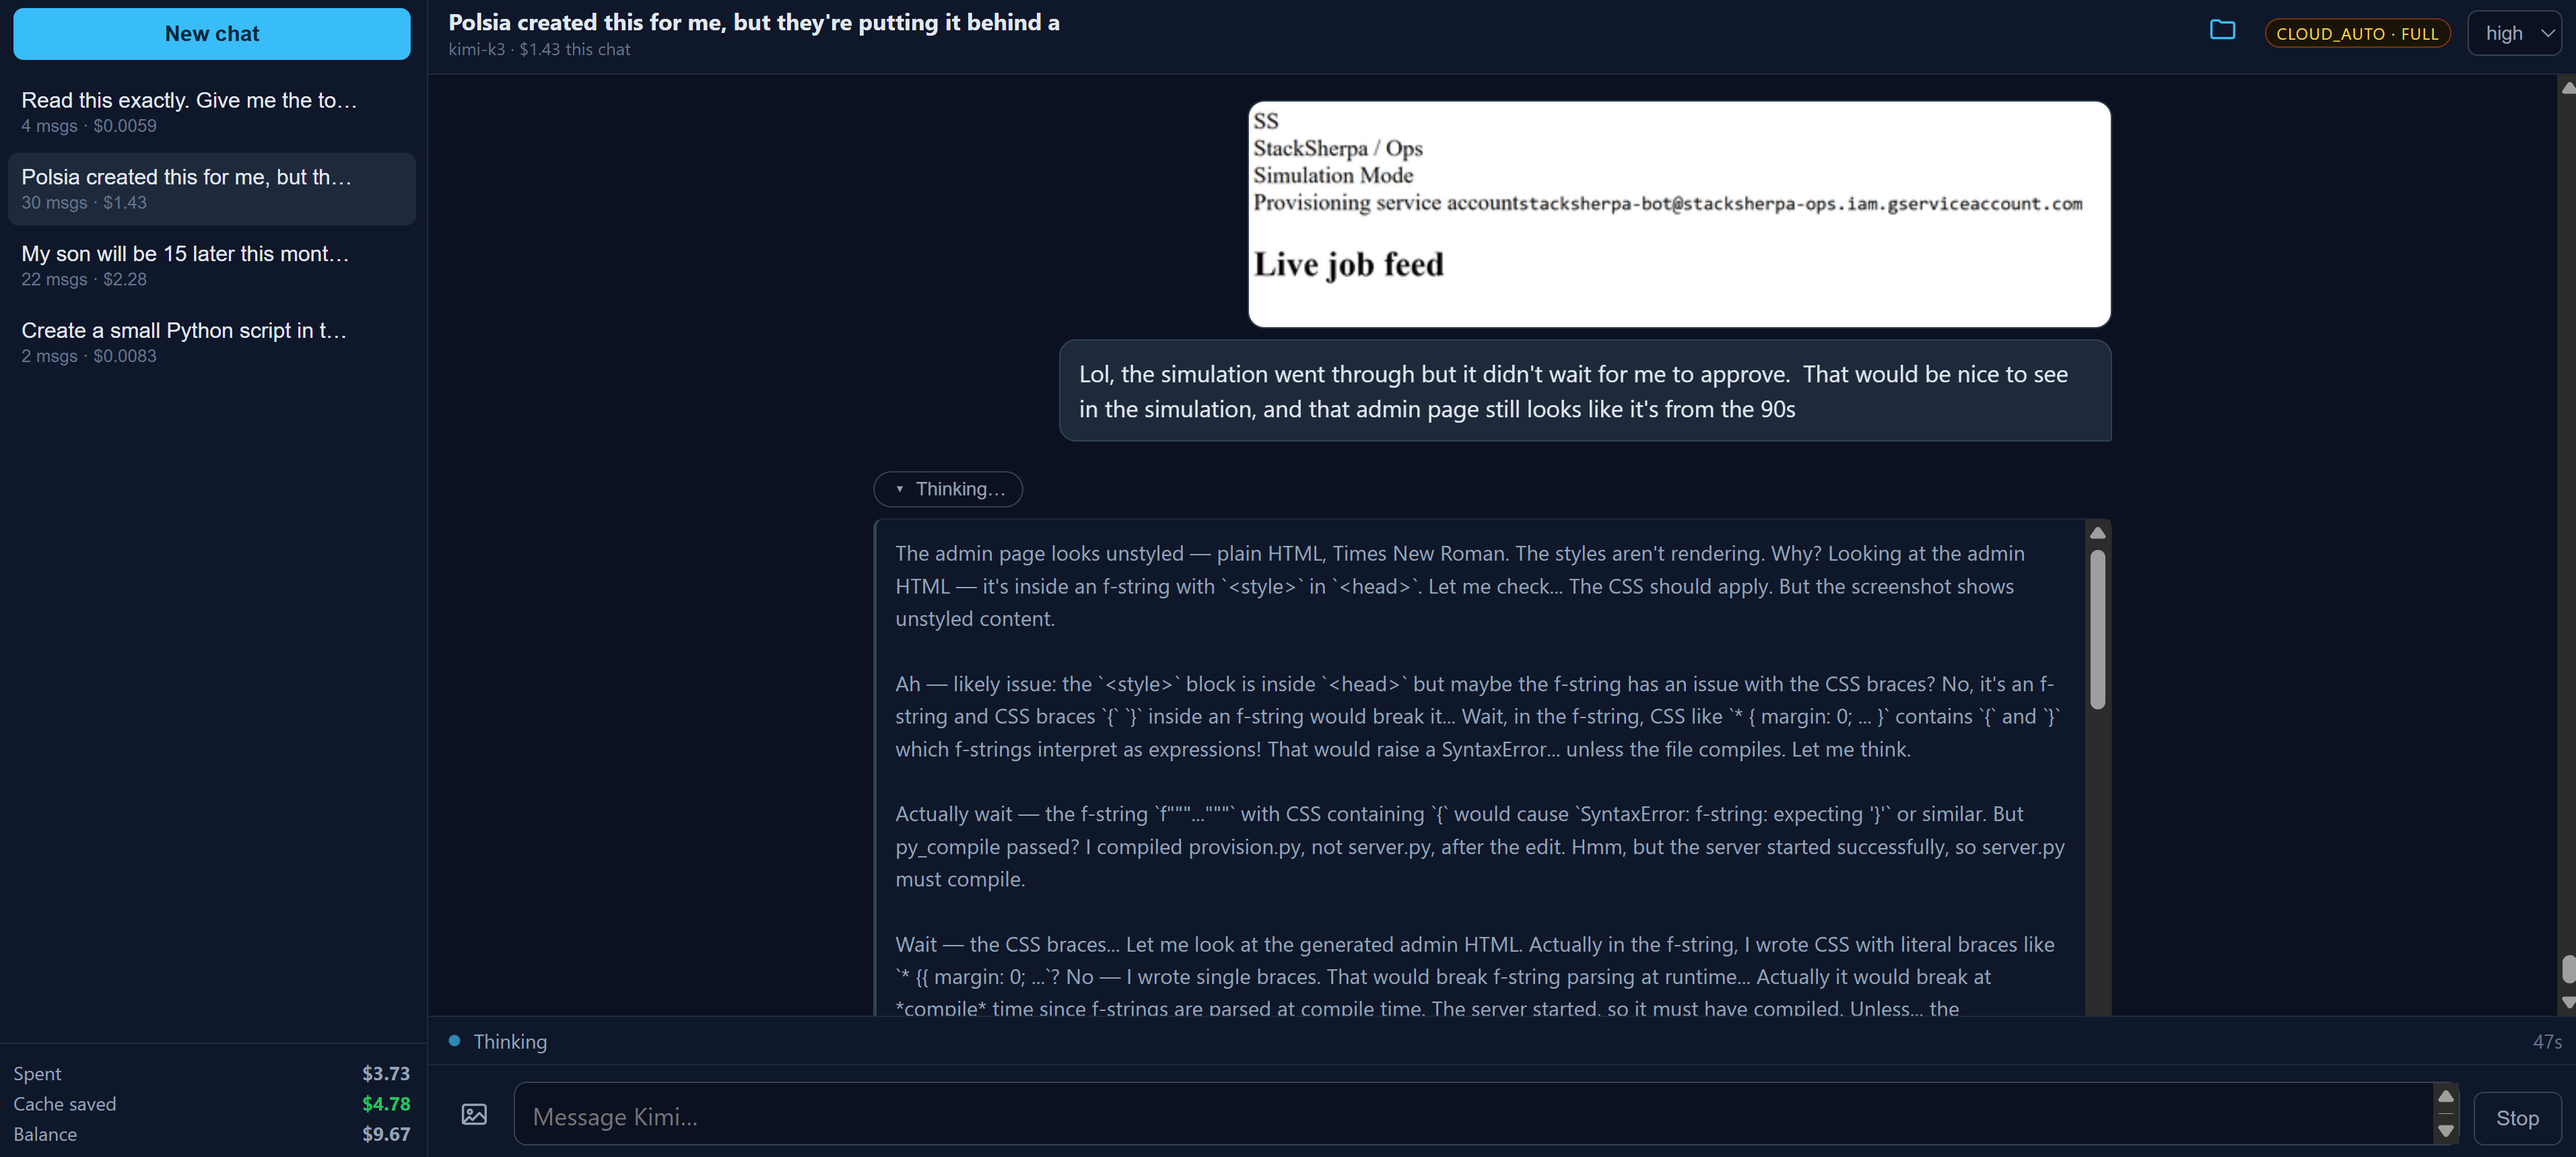
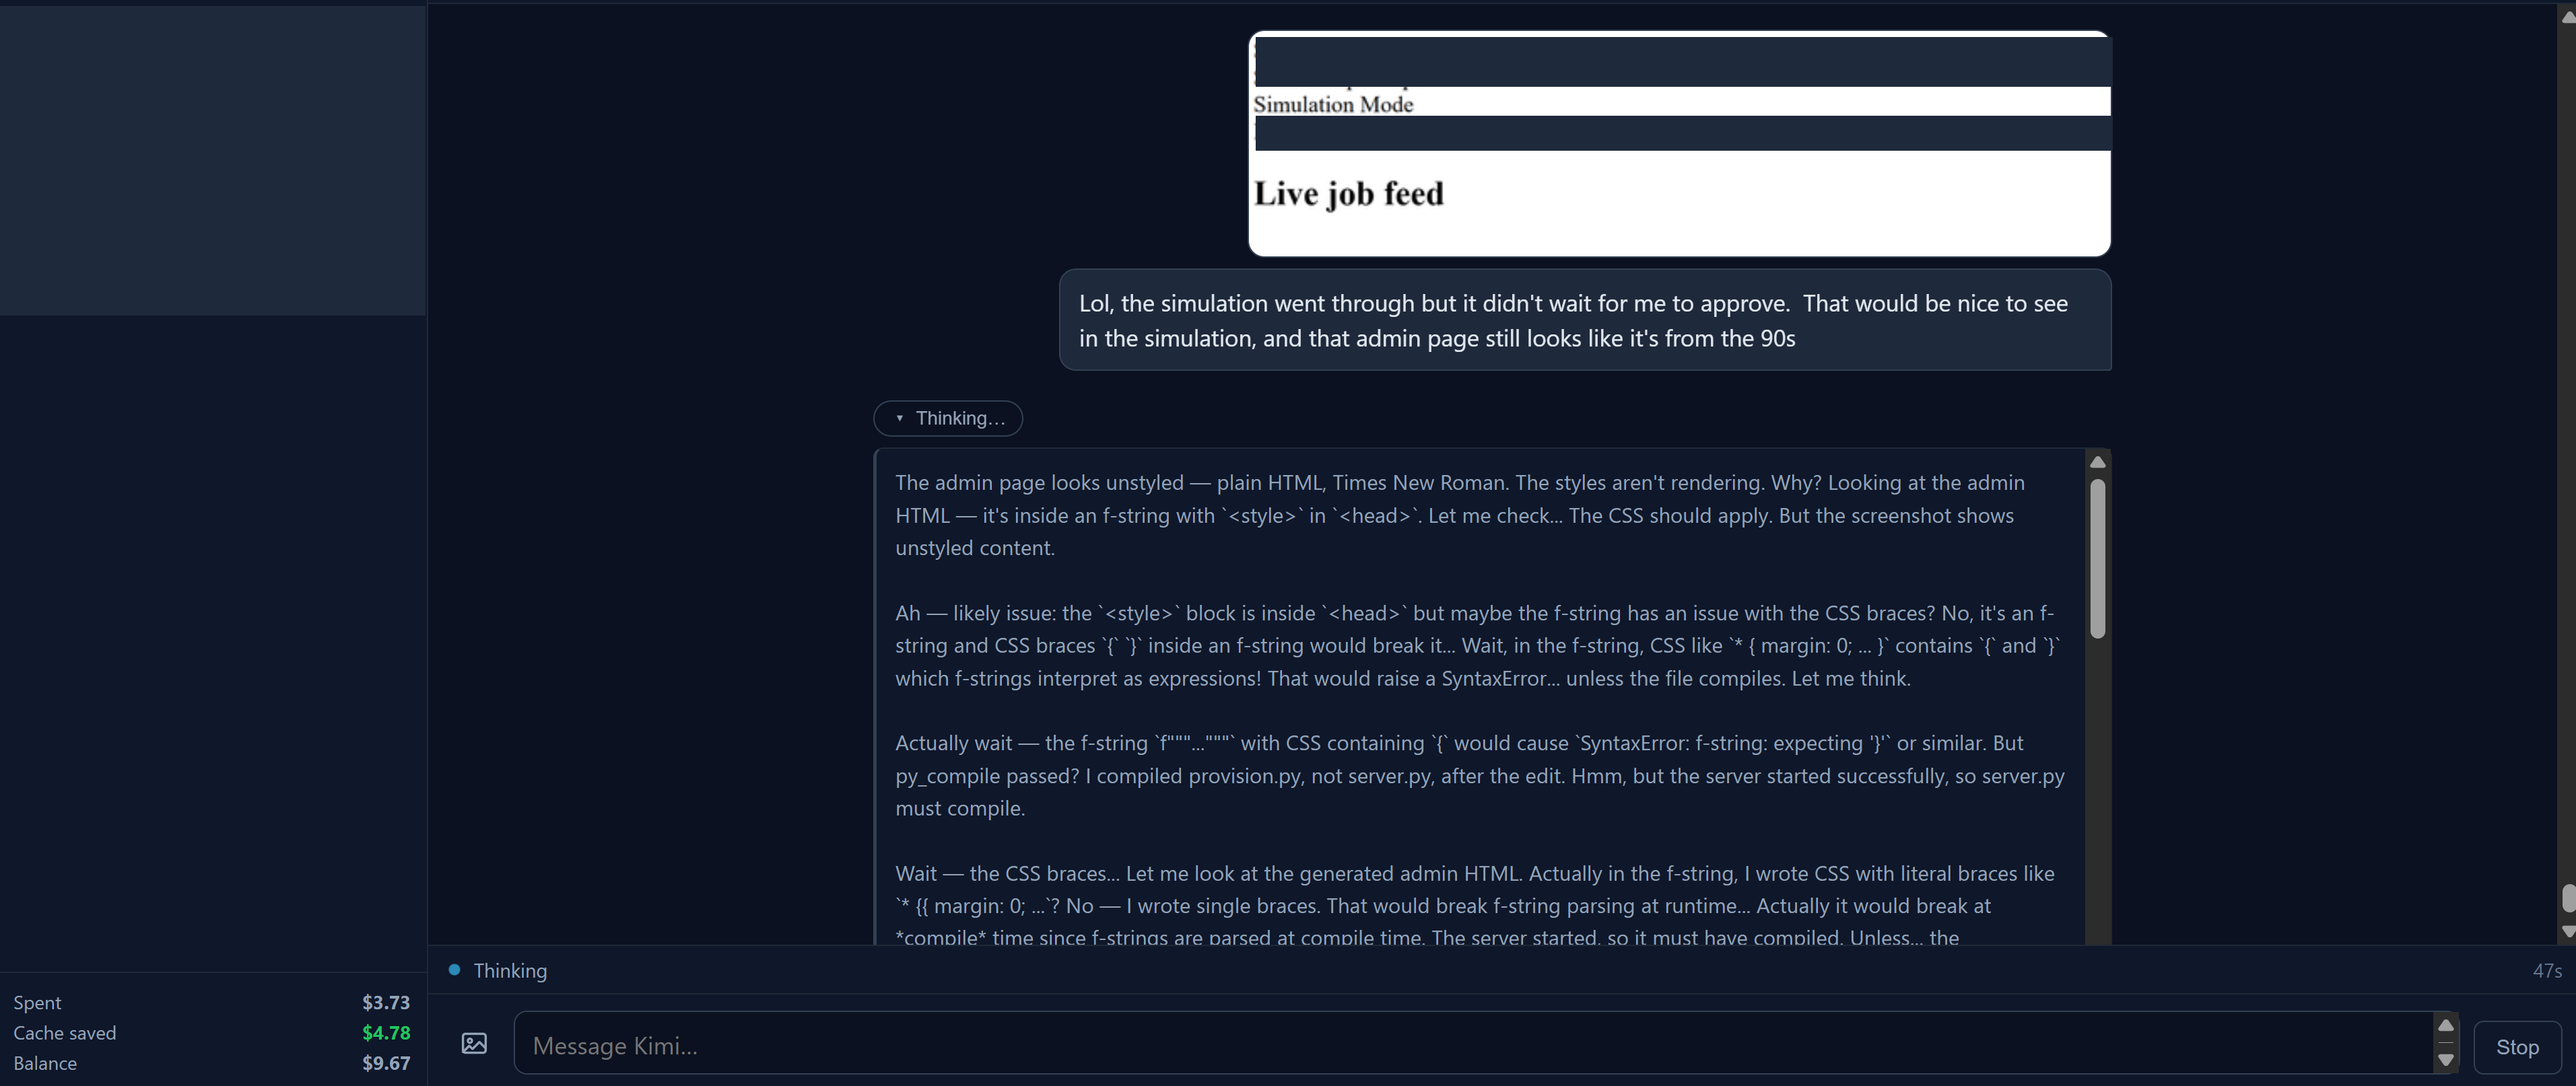
Redact a third party's product from the figures
The screenshots carried the title bar of the conversation they were taken in,
and that title named a third party's service in four of five images. A second
image carried unrelated private conversation titles in the sidebar, and the
mangled page in a third showed that company's service-account address.

None of it bears on anything this report claims. The subject is a debugging
session; the application under repair is scaffolding, and there is no reason
for someone else's business to appear in it. Removed: the title bars by
cropping, the sidebar entries and the two identifying lines by solid fill.

Every quoted line, token count and price is untouched original pixels, and
figures/README.md now says so, so that a reader does not mistake a redaction
bar for a rendering fault -- which would be an unfortunate way to be
misunderstood in this particular document.

Two captions cited the redacted text as evidence and now describe it instead:
a label that ran together with its value, which showed the markup rather than
only the stylesheet had been damaged.

diff --git a/figures/README.md b/figures/README.md
@@ -10,6 +10,16 @@ from the operator's chair — which is worth more than a description of them,
 because the whole difficulty was that a stale context and an invention look
 identical from there.
 
+## Redactions
+
+Solid bars in these images are deliberate, not rendering faults. Removed:
+the conversation title bar and sidebar entries, which are unrelated private
+work; and the name and service-account address of a third party's product,
+because the subject of this report is a debugging session and there is no
+reason to drag someone else's business into it. Nothing bearing on any claim
+made here has been altered — every quoted line, token count and price is the
+original pixels.
+
 ---
 
 ### `fabricated-listing.png` → §P6
@@ -88,10 +98,11 @@ The screenshot that started the useful part, pasted with one sentence: *"the
 simulation went through but it didn't wait for me to approve, and that admin
 page still looks like it's from the 90s."*
 
-The page renders in browser-default serif on white. The run-together
-"Provisioning service accountstacksherpa-bot@…" is itself evidence that the
-markup rather than merely the styling had been mangled — a detail the model
-picked up on.
+The page renders in browser-default serif on white — no stylesheet applied at
+all. One of its labels ran together with the value beside it, which is evidence
+that the markup and not merely the styling had been mangled, and a detail the
+model picked up on. That line names a third party's service and is redacted
+here, along with the conversation titles in the sidebar.
 
 The reasoning pane is the reason this image is here. It raises the f-string
 brace theory and knocks it down against a fact the situation supplied — *"that
@@ -116,7 +127,7 @@ inferences (*"the code is actually correct — it does park at
 `awaiting_review`"*). The screenshot had been a pointer, not a proof.
 
 Three minutes forty-five of work, and the green bar reports
-`http://192.168.4.101:8310/ stacksherpa-sim` as running. Nothing was listening
+`http://192.168.4.101:8310/` as running. Nothing was listening
 on it. That single bar is the defect that cost the most hours in this whole
 report.
 

diff --git a/two-frontier-models.md b/two-frontier-models.md
@@ -552,10 +552,11 @@ open." It now returns to B.
 ![The unstyled admin page, and the reasoning pane rejecting its own hypotheses](figures/admin-unstyled-and-reasoning.png)
 
 *The exchange described above, and worth reading closely. The pasted page renders
-in browser-default serif on white; the run-together "Provisioning service
-accountstacksherpa-bot@…" is itself evidence that the markup, not just the
-styling, had been mangled. In the reasoning pane B raises the f-string brace
-theory and knocks it down — "that would raise a SyntaxError… unless the file
+in browser-default serif on white — no stylesheet applied at all — and one of its
+labels ran together with the value beside it, which is evidence that the markup
+and not merely the styling had been mangled. (That line names a third party's
+service and is redacted here, as are the conversation titles in the sidebar.) In
+the reasoning pane B raises the f-string brace theory and knocks it down — "that would raise a SyntaxError… unless the file
 compiles" — then locates its own blind spot: "I compiled `provision.py`, not
 `server.py`, after the edit." Bottom left, the running totals: $3.73 spent
 against $4.78 saved by prompt caching. At this point in the conversation the
@@ -630,7 +631,7 @@ parameter works in bytes, not lines… let me just read the whole file, it's onl
 13KB") and then disproves one of its own image-derived inferences: "the code is
 actually correct — it does park at `awaiting_review`." Three minutes and
 forty-five seconds of work, and the green bar at the bottom reports
-`http://192.168.4.101:8310/ stacksherpa-sim` as running. Nothing was listening
+`http://192.168.4.101:8310/` as running. Nothing was listening
 on it. Neither party would understand why for another two hours (§P6).*
 
 **It corrected its model of a tool, not of the code.** Reading the file in
